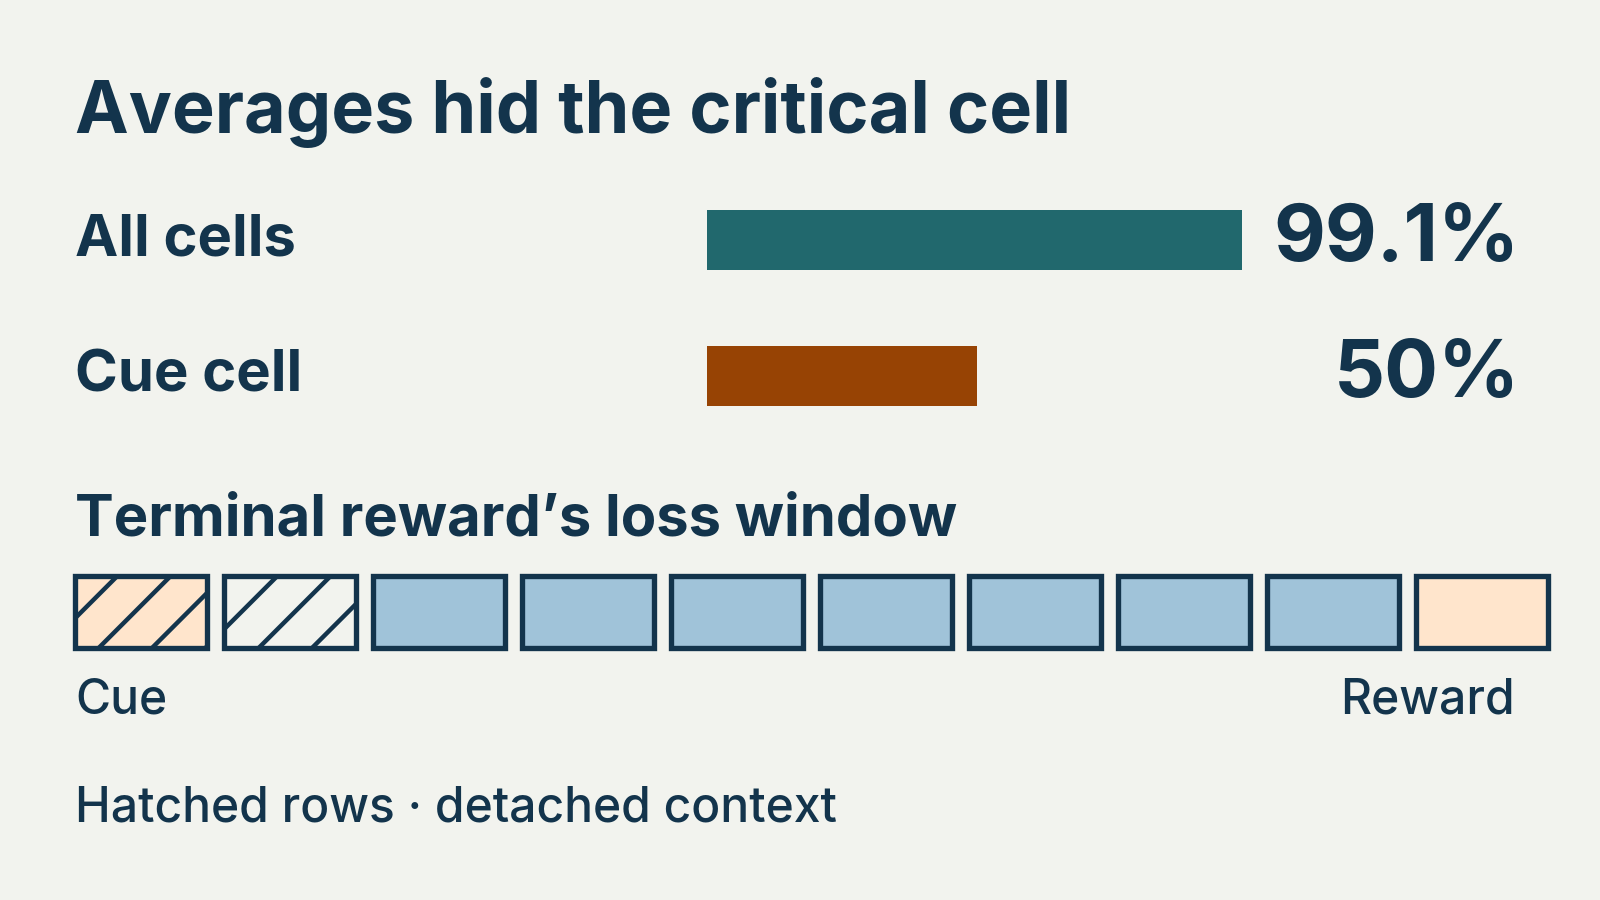
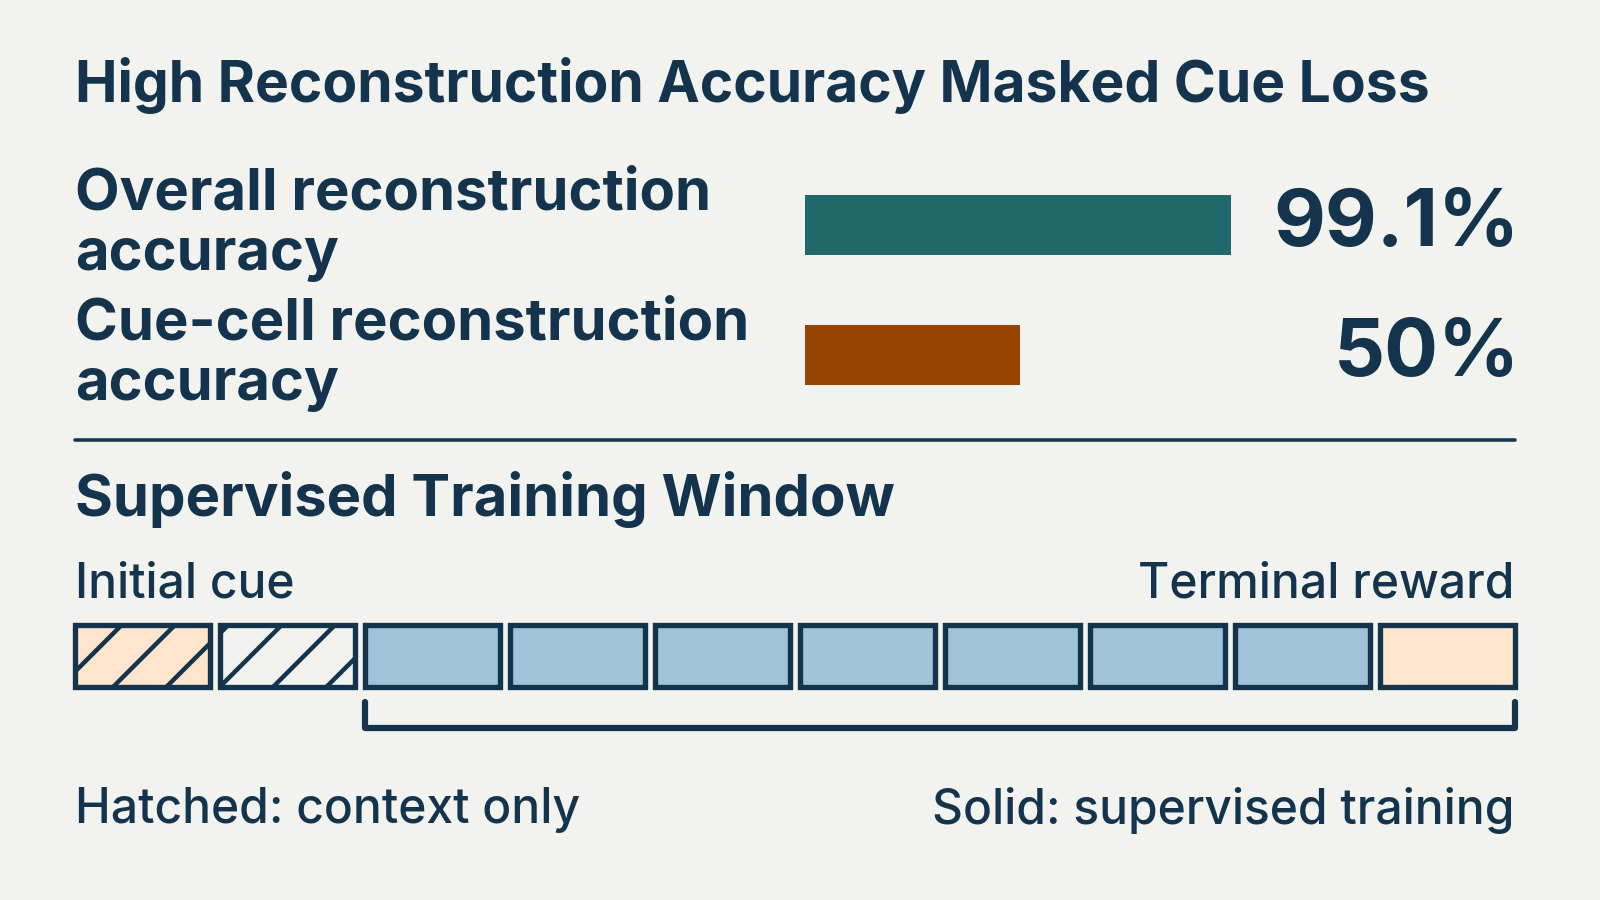
Clarify LinkedIn reconstruction and supervised training window

diff --git a/docs/publication_figures/linkedin_layouts.py b/docs/publication_figures/linkedin_layouts.py
@@ -268,8 +268,7 @@ def maze():
     return g.fig
 
 
-def bars(g, rows, ys, *, approximate=(), x=707):
-    w=540
+def bars(g, rows, ys, *, approximate=(), x=707, w=540):
     for (name,v,fg),y in zip(rows,ys,strict=True):
         g.text(75,y,name,"primary")
         g.box(x,y-30,w*v,60,fg)
@@ -309,19 +308,26 @@ def intervention():
 
 
 def training_signal():
-    g=Layout("Averages hid the critical cell")
-    data=D["reconstruction"].values()
-    bars(g,[("All cells",mean(x["all_accuracy"] for x in data),"dark_teal"),
-            ("Cue cell",mean(x["cue_accuracy"] for x in data),"dark_orange")],[240,376])
-    g.text(75,521,"Terminal reward’s loss window","primary")
+    g = Layout(None)
+    g.text(75, 86, "High Reconstruction Accuracy Masked Cue Loss", "title", size=57)
+    data = D["reconstruction"].values()
+    bars(g, [
+        ("Overall reconstruction\naccuracy", mean(x["all_accuracy"] for x in data), "dark_teal"),
+        ("Cue-cell reconstruction\naccuracy", mean(x["cue_accuracy"] for x in data), "dark_orange"),
+    ], [225, 355], x=805, w=430)
+
+    g.line([75, 1515], [440, 440], lw=.8)
+    g.text(75, 500, "Supervised Training Window", "primary")
+    g.text(75, 585, "Initial cue")
+    g.text(1515, 585, "Terminal reward", align="right")
     for i in range(10):
-        bg="pale_orange" if i in (0,9) else "mist" if i>=2 else "ivory"
-        color=g.color("navy",bg,"indicator")
-        g.ax.add_patch(Rectangle((75+149*i,576),132,72,facecolor=P[bg],edgecolor=color,
-                                 lw=1.2,hatch="//" if i<2 else None))
-    g.text(75,700,"Cue")
-    g.text(1515,700,"Reward",align="right")
-    g.text(75,808,"Hatched rows · detached context")
+        bg = "pale_orange" if i in (0, 9) else "mist" if i >= 2 else "ivory"
+        color = g.color("navy", bg, "indicator")
+        g.ax.add_patch(Rectangle((75 + 145*i, 625), 135, 62, facecolor=P[bg],
+                                 edgecolor=color, lw=1.2, hatch="//" if i < 2 else None))
+    g.line([365, 365, 1515, 1515], [702, 728, 728, 702], lw=1.4)
+    g.text(75, 810, "Hatched: context only")
+    g.text(1515, 810, "Solid: supervised training", align="right")
     return g.fig
 
 
